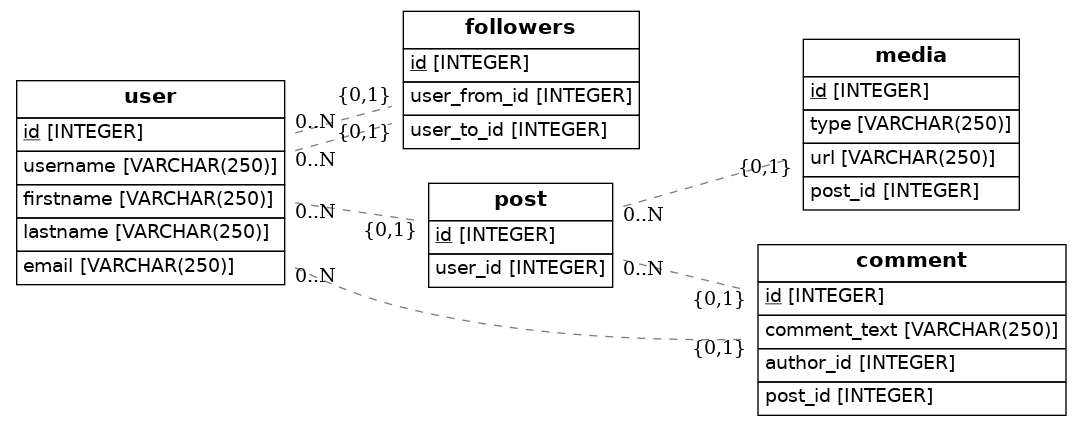
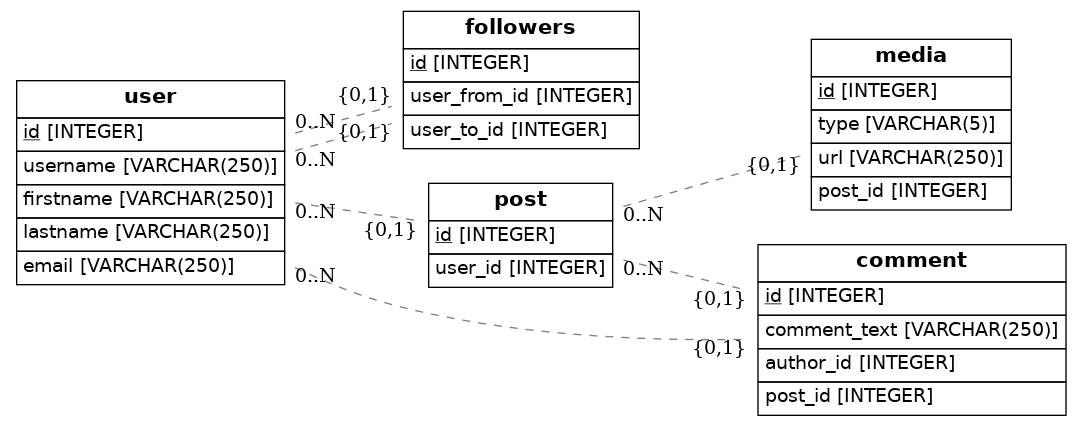
done

Changed region(s): [[0.6716, 0.0915, 0.9463, 0.4883]]

diff --git a/src/models.py b/src/models.py
@@ -1,11 +1,10 @@
 import os
 import sys
-from sqlalchemy import Column, ForeignKey, Integer, String
+from sqlalchemy import Column, ForeignKey, Integer, String, Enum
 from sqlalchemy.ext.declarative import declarative_base
 from sqlalchemy.orm import relationship
 from sqlalchemy import create_engine
 from eralchemy import render_er
-import enum
 
 Base = declarative_base()
 """
@@ -47,7 +46,7 @@ class Followers(Base):
 class Media(Base):
     __tablename__ = 'media'
     id = Column(Integer, primary_key=True)
-    type = Column(Enum(250))
+    type = Column(Enum("video","image"))
     url = Column(String(250))
     post_id = Column(Integer, ForeignKey("post.id"))
     comment = relationship('Comment')
